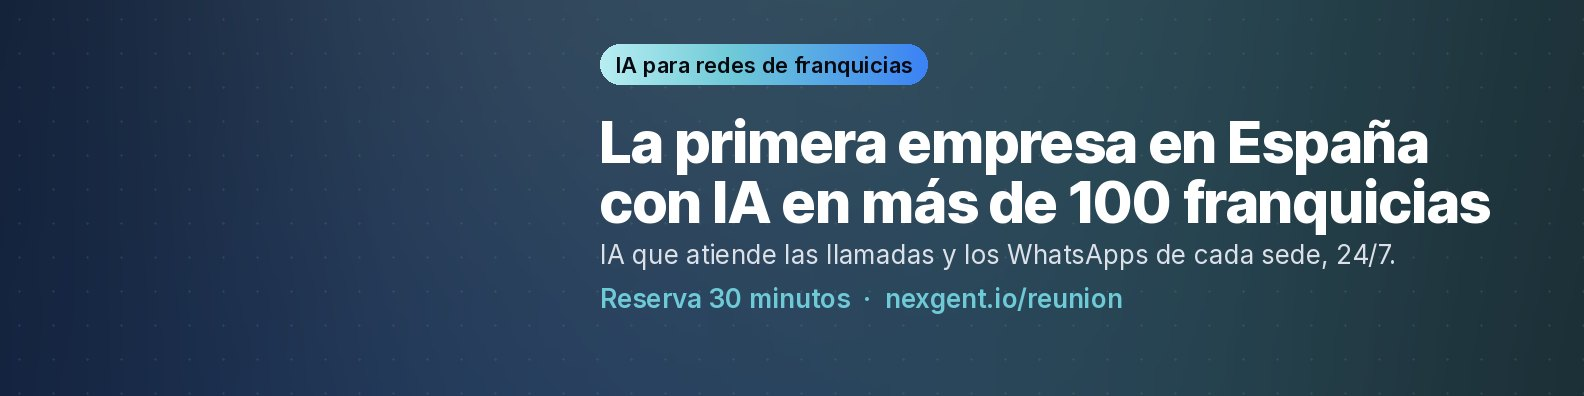
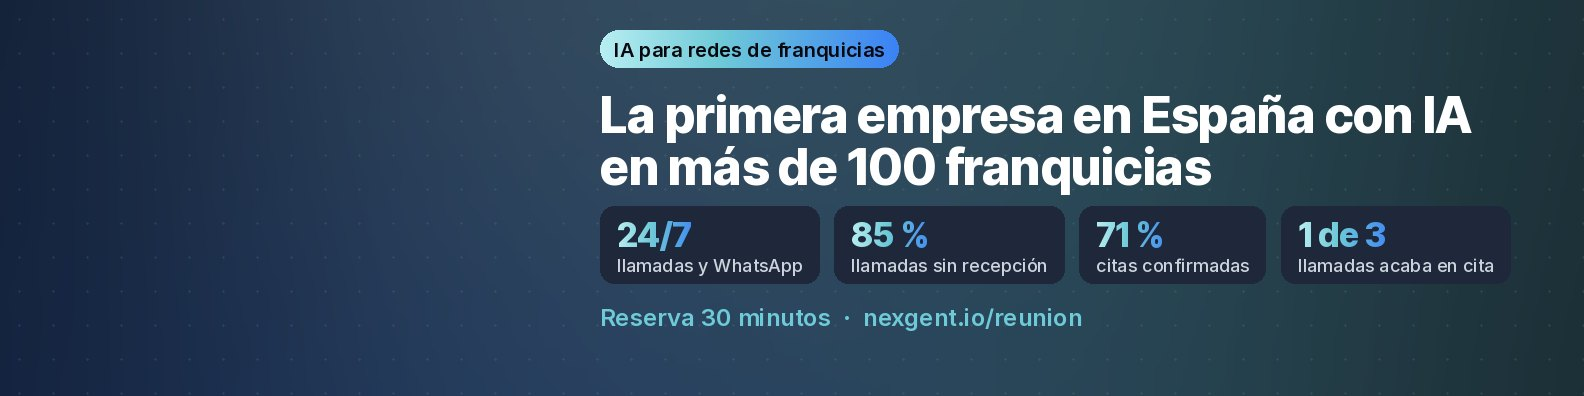
Diseño: portada de LinkedIn v2 con datos del caso
Claude-Session: https://claude.ai/code/session_011YkNEgMZNnsgKhAdJiWZhA

Changed region(s): [[0.3712, 0.0606, 0.959, 0.8485]]

diff --git a/design/render.py b/design/render.py
@@ -509,17 +509,32 @@ def banner(spec, out):
     img = Image.composite(Image.new("RGB", (W, H), (110, 140, 160)), img, dots)
     d = ImageDraw.Draw(img)
     x0, maxw = 600, W - 600 - 64
-    y = 44
+    y = 30 if spec.get("datos") else 44
     if spec.get("etiqueta"):
-        chip(img, d, x0, y, spec["etiqueta"], 22)
-        y += 62
-    f, lines, sz = fit_text(d, spec.get("titulo", ""), "display", maxw, 130, 58, 34, 1.04)
+        chip(img, d, x0, y, spec["etiqueta"], 20)
+        y += 54
+    f, lines, sz = fit_text(d, spec.get("titulo", ""), "display", maxw, 110 if spec.get("datos") else 130, 50 if spec.get("datos") else 58, 32, 1.04)
     y = draw_lines(d, (x0, y), lines[:2], f, sz, lh=1.04) + 12
     if spec.get("subtitulo"):
         fs = font("text", 26)
         d.text((x0, y), wrap(d, spec["subtitulo"], fs, maxw)[0], font=fs, fill=(220, 224, 232))
         y += 44
-    fb = font("semi", 26)
+    datos = spec.get("datos") or []
+    if datos:
+        y += 6
+        xx = x0
+        for num, txt in datos:
+            fn, ft = font("display", 34), font("medium", 18)
+            w = max(d.textlength(num, font=fn), d.textlength(txt, font=ft)) + 34
+            box = Image.new("RGBA", (int(w), 78), (255, 255, 255, 18))
+            m = Image.new("L", box.size, 0)
+            ImageDraw.Draw(m).rounded_rectangle([0, 0, box.size[0] - 1, 77], radius=14, fill=255)
+            img.paste(Image.new("RGB", box.size, (30, 40, 58)), (int(xx), int(y)), m)
+            grad_text(img, (int(xx) + 17, int(y) + 8), [num], fn, 34, 1.0)
+            d.text((xx + 17, y + 48), txt, font=ft, fill=(205, 212, 222))
+            xx += w + 14
+        y += 96
+    fb = font("semi", 24)
     cta = spec.get("cta", "Reserva 30 minutos  ·  nexgent.io/reunion")
     d.text((x0, y), cta, font=fb, fill=TURQ)
     save(img, out, "banner.jpg")
